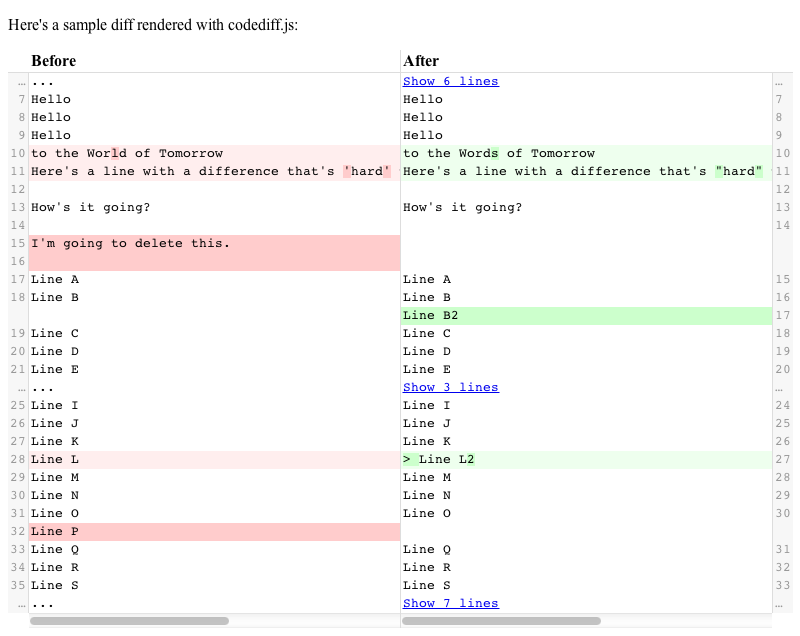
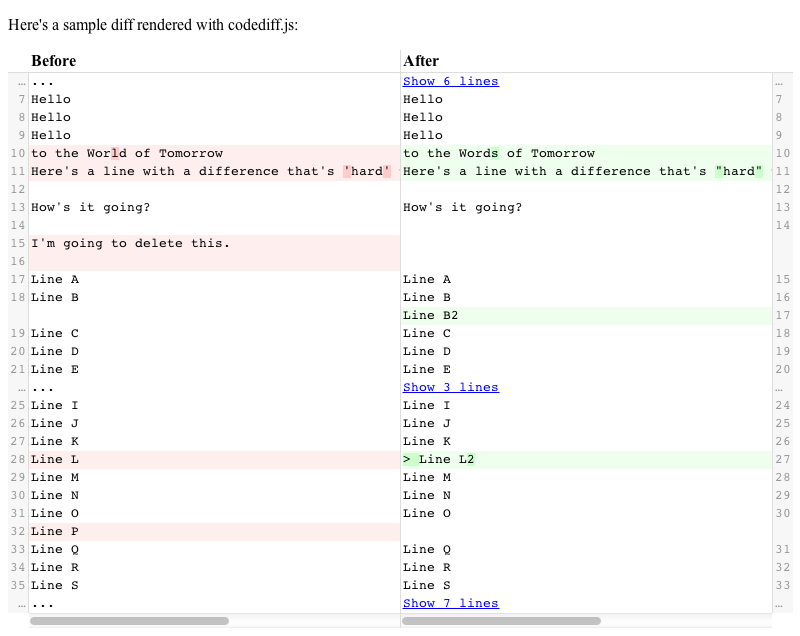
more consistent coloring of add/delete

Changed region(s): [[0.0312, 0.3585, 0.5, 0.4481], [0.0312, 0.8066, 0.5, 0.8664], [0.5, 0.478, 0.9688, 0.5377]]

diff --git a/codediff.css b/codediff.css
@@ -79,10 +79,10 @@
 }
 
 .diff .delete {
-  background-color: #fcc;
+  background-color: #fee;
 }
 .diff .insert {
-  background-color: #cfc;
+  background-color: #efe;
 }
 
 .diff-left-content .replace {
